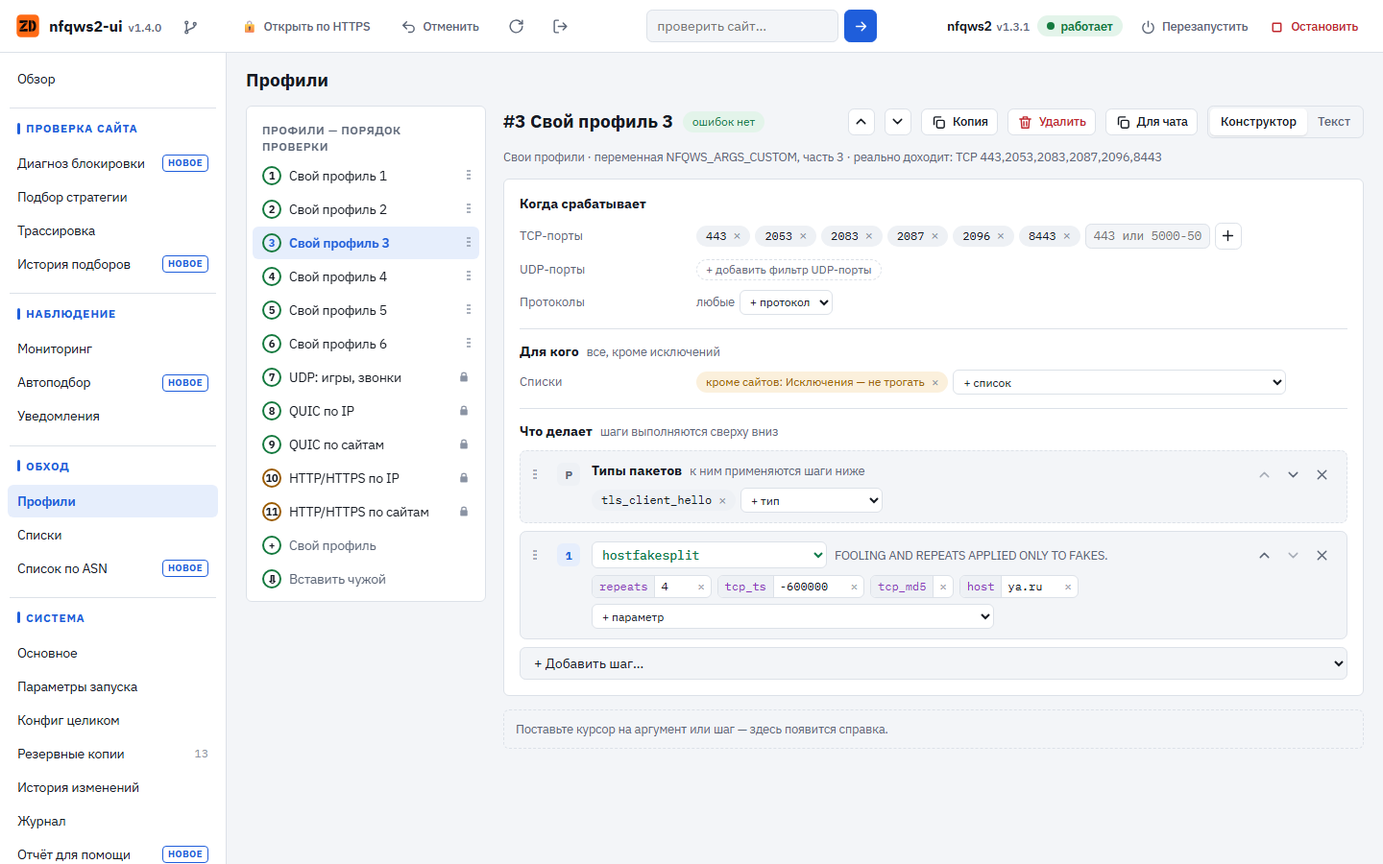
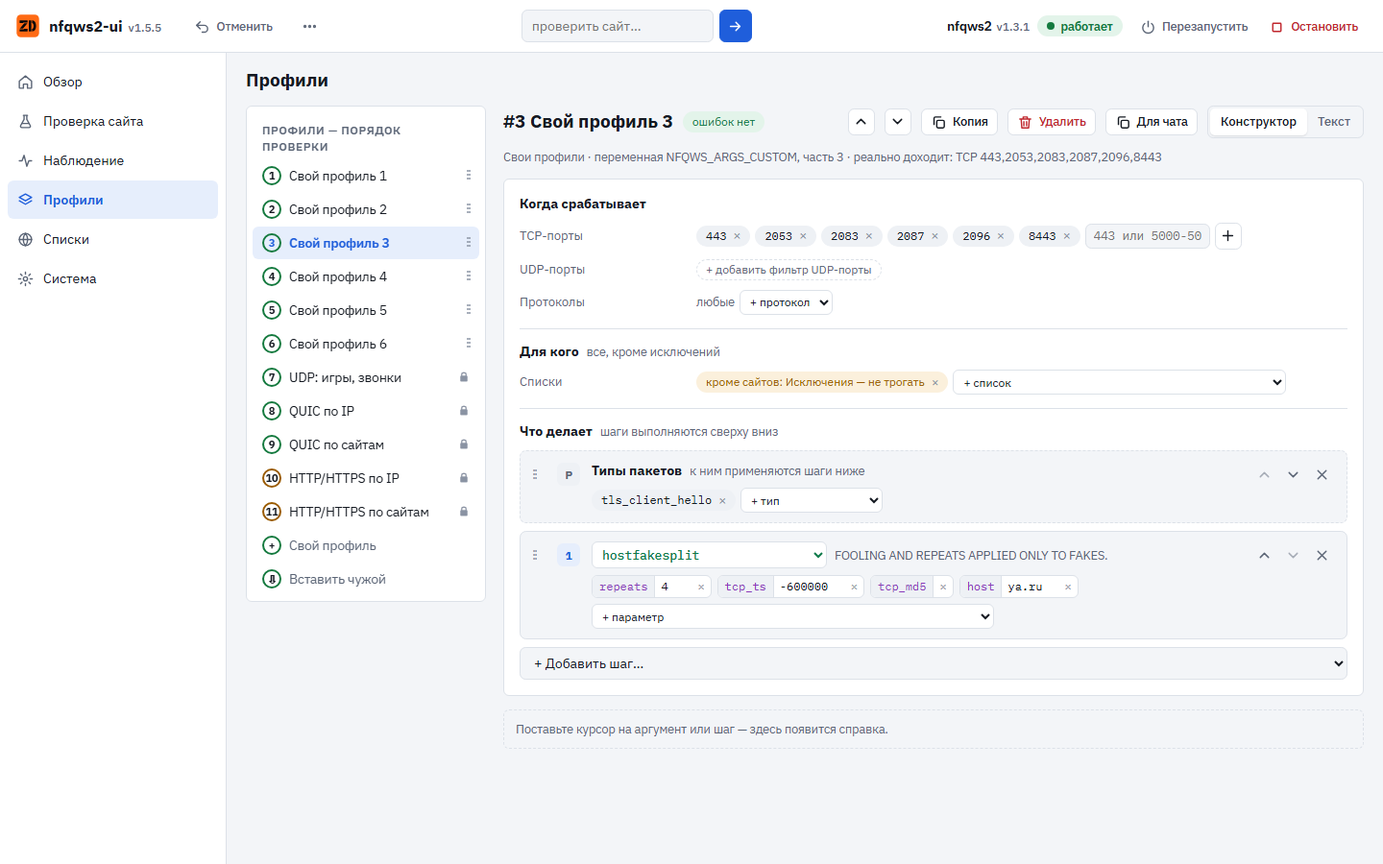
Simpler interface: six menu sections with page tabs, 'Brief' overview, rare top bar actions under '⋯' (#9)

diff --git a/src/www/app.js b/src/www/app.js
@@ -29,6 +29,7 @@ const ICONS = {
   edit: '<path d="M4 20h4L19 9l-4-4L4 16z"/>',
   wand: '<path d="m15 4 5 5L9 20l-5-5z"/><path d="M13 6l5 5"/>',
   menu: '<path d="M4 6h16M4 12h16M4 18h16"/>',
+  more: '<circle cx="5" cy="12" r="1.3"/><circle cx="12" cy="12" r="1.3"/><circle cx="19" cy="12" r="1.3"/>',
   pulse: '<path d="M3 12h4l3-8 4 16 3-8h4"/>',
   layers: '<path d="m12 3 9 5-9 5-9-5z"/><path d="m3 13 9 5 9-5"/>',
   download: '<path d="M12 4v11M7 10l5 5 5-5M5 20h14"/>',
@@ -305,12 +306,13 @@ const PAGES = {
   // ещё не сделаны: в меню видны, но заблокированы и помечены «скоро»
   diag: ['#/diag', 'Диагноз блокировки'], phist: ['#/tests/history', 'История подборов'], auto: ['#/tests/auto', 'Автоподбор'], asn: ['#/asn', 'Список по ASN'], report: ['#/settings/report', 'Отчёт для помощи'],
 };
-const NEW_PAGES = ['diag', 'phist', 'auto', 'asn', 'report'];   // только что появились — помечаются в меню
+const NEW_PAGES = [];   // только что появились — помечаются во вкладках («новое»)
 const SOON_HINT = 'Ещё в разработке — появится в одной из следующих версий';
 const SYS_PAGES = ['basic', 'base', 'raw', 'backup', 'hist', 'log', 'report', 'look', 'about'];
 const SYS_NAV = ['basic', 'base', 'raw', 'backup', 'hist', 'log', 'report', 'look', 'about'];
-// Компоновка «Боковое меню»: группы и их страницы
-const MENU = [[null, ['over']], ['Проверка сайта', ['diag', 'pick', 'trace', 'phist']], ['Наблюдение', ['mon', 'auto', 'tg']], ['Обход', ['prof', 'lists', 'asn']], ['Система', SYS_NAV]];
+// Компоновка «Боковое меню»: шесть разделов, страницы раздела — вкладками над страницей (как в TOP_TABS)
+const MENU = [['over', 'Обзор', 'home', ['over']], ['pick', 'Проверка сайта', 'tests', ['diag', 'pick', 'trace', 'phist', 'site']], ['mon', 'Наблюдение', 'pulse', ['mon', 'auto', 'tg']],
+  ['prof', 'Профили', 'layers', ['prof']], ['lists', 'Списки', 'sites', ['lists', 'asn']], ['basic', 'Система', 'settings', SYS_NAV]];
 // Верхние вкладки компоновок: страница по клику, подпись, значок, страницы вкладки, «только на узком экране»
 const TOP_TABS = {
   menu: [],
@@ -366,14 +368,12 @@ function pageTail(id) {
   return tail ? h('span', { class: 'tail' }, tail) : null;
 }
 
+// У раздела — отметка первой из его страниц, у которой она есть (упавшие сайты, ошибки, обновление); число снимков — только во вкладке
 function menuNav() {
   const cur = pageOf();
-  return h('nav', { class: 'nav mnav', 'aria-label': 'Разделы' }, MENU.map(([head, ids]) => [
-    head ? h('div', { class: 'nav-h', text: head }) : null,
-    ids.map((id) => PAGES[id][0]
-      ? h('a', { href: PAGES[id][0], 'data-pages': id === 'pick' ? 'pick site' : id, class: id === cur || (id === 'pick' && cur === 'site') ? 'on' : null },
-        h('span', { class: 'nm', text: PAGES[id][1] }), NEW_PAGES.includes(id) ? h('span', { class: 'tag new', text: 'новое' }) : pageTail(id))
-      : soonItem(id))]));
+  return h('nav', { class: 'nav mnav', 'aria-label': 'Разделы' }, MENU.map(([id, label, ic, pages]) =>
+    h('a', { href: PAGES[id][0], 'data-pages': pages.join(' '), class: pages.includes(cur) ? 'on' : null },
+      icon(ic), h('span', { class: 'nm', text: label }), pages.filter((x) => x !== 'backup').map(pageTail).find(Boolean) || null)));
 }
 
 // Пункт для ещё не сделанной страницы: виден, но не нажимается
@@ -388,9 +388,9 @@ function openDrawer(on = true) {
   if (on) d.firstChild.replaceChildren(menuNav());
 }
 
-// Второй ряд вкладок — страницы текущей верхней вкладки (компоновки «Вкладки» и «Вокруг сайта»)
+// Ряд вкладок над страницей — страницы текущего раздела
 function subTabs(page) {
-  const tab = TOP_TABS[layout()].find((t) => t[3].includes(page));
+  const tab = (layout() === 'menu' ? MENU : TOP_TABS[layout()]).find((t) => t[3].includes(page));
   const ids = tab ? tab[3].filter((id) => id !== 'site') : [];
   if (ids.length < 2 || page === 'site') return null;
   return h('nav', { class: 'subtabs', 'aria-label': tab[1] }, ids.map((id) => PAGES[id][0] ? h('a', { href: PAGES[id][0], class: id === page ? 'on' : null }, PAGES[id][1], NEW_PAGES.includes(id) ? h('span', { class: 'tag new', text: 'новое' }) : null) : soonItem(id)));
@@ -404,13 +404,10 @@ function renderShell() {
       h('div', { class: 'top-in' },
         h('button', { class: 'btn ghost icon', id: 'burger', type: 'button', title: 'Меню', 'aria-label': 'Меню', onclick: () => openDrawer() }, icon('menu')),
         h('a', { class: 'brand', href: PAGES.about[0], title: 'nfqws2-ui — о программе' }, logo(26), h('span', {}, 'nfqws2-ui', h('small', { id: 'ui-ver' }))),
-        h('a', { class: 'btn ghost small repo-link', id: 'repo-link', href: REPO, target: '_blank', rel: 'noopener', title: 'nfqws2-ui на GitHub', 'aria-label': 'nfqws2-ui на GitHub' }, icon('git')),
         h('nav', { class: 'tabs', 'aria-label': 'Разделы' }, TOP_TABS[layout()].map(link)),
-        h('span', { id: 'https-slot' }),
         h('button', { class: 'btn ghost small', type: 'button', id: 'undo-btn', hidden: true, onclick: () => undoLast(true) }, icon('undo'), h('span', { class: 'undo-label', text: 'Отменить' })),
         h('button', { class: 'btn ghost small', type: 'button', id: 'focus-off', hidden: true, onclick: () => setFocus(false) }, 'Показать обзор'),
-        h('button', { class: 'btn ghost icon', id: 'refresh-top', type: 'button', title: 'Обновить', 'aria-label': 'Обновить', onclick: () => route(true) }, icon('refresh')),
-        S.authEnabled ? h('button', { class: 'btn ghost icon', type: 'button', title: 'Выйти', 'aria-label': 'Выйти', onclick: logout }, icon('logout')) : null,
+        moreMenu(),
         h('span', { class: 'grow' }),
         h('form', { class: 'quick', onsubmit: (e) => { e.preventDefault(); const v = quick.value.trim(); if (!v) return; quick.value = ''; quick.blur(); checkHost(v); } },
           quick, h('button', { class: 'btn primary icon', type: 'submit', title: 'Проверить: открывается ли сайт и каким профилем nfqws2 он пойдёт', 'aria-label': 'Проверить' }, icon('arrow'))),
@@ -427,6 +424,24 @@ function renderShell() {
     h('div', { id: 'drawer', class: 'drawer', hidden: true, onclick: (e) => { if (e.target.id === 'drawer' || e.target.closest('a')) openDrawer(false); } }, h('div', { class: 'drawer-in' })));
 }
 
+// Редкое из верхней панели — под «⋯»: обновить данные, HTTPS, GitHub, выход
+function moreMenu() {
+  const pop = h('div', { class: 'more-pop', hidden: true, role: 'menu', onclick: (e) => { if (e.target.closest('a, button')) pop.hidden = true; } },
+    h('button', { type: 'button', role: 'menuitem', onclick: () => route(true) }, icon('refresh'), 'Обновить данные'),
+    h('span', { id: 'https-slot' }),
+    h('a', { href: REPO, target: '_blank', rel: 'noopener', role: 'menuitem', id: 'repo-link' }, icon('git'), 'nfqws2-ui на GitHub'),
+    h('a', { href: PAGES.about[0], role: 'menuitem' }, icon('info'), 'О программе'),
+    S.authEnabled ? h('button', { type: 'button', role: 'menuitem', onclick: logout }, icon('logout'), 'Выйти') : null);
+  const b = h('button', { class: 'btn ghost icon', type: 'button', id: 'more-btn', title: 'Ещё: обновить данные, HTTPS, GitHub, выход', 'aria-label': 'Ещё', 'aria-haspopup': 'menu',
+    onclick: (e) => { e.stopPropagation(); pop.hidden = !pop.hidden; } }, icon('more'));
+  if (!moreMenu.bound) {
+    moreMenu.bound = true;
+    document.addEventListener('click', (e) => { const p = document.querySelector('.more-pop'); if (p && !p.hidden && !p.contains(e.target)) p.hidden = true; });
+    document.addEventListener('keydown', (e) => { if (e.key === 'Escape') document.querySelector('.more-pop')?.setAttribute('hidden', ''); });
+  }
+  return h('span', { class: 'more-wrap' }, b, pop);
+}
+
 function setFocus(on) {
   document.documentElement.dataset.focus = on ? '1' : '0';
   const b = document.getElementById('focus-off');
@@ -441,7 +456,7 @@ function updateChrome() {
   // Ссылка на HTTPS — только если он включён (nfqws-ui-setup https on)
   const hp = st.ui?.https_port;
   document.getElementById('https-slot')?.replaceChildren(location.protocol === 'http:' && hp
-    ? h('a', { class: 'btn ghost small https-link', href: `https://${location.hostname}:${hp}/${location.hash}`, title: 'Открыть по HTTPS: пароль и данные идут в зашифрованном виде', 'aria-label': 'Открыть по HTTPS' }, '🔒', h('span', { text: ' Открыть по HTTPS' }))
+    ? h('a', { href: `https://${location.hostname}:${hp}/${location.hash}`, role: 'menuitem', title: 'Пароль и данные идут в зашифрованном виде' }, h('span', { class: 'mi', text: '🔒' }), 'Открыть по HTTPS')
     : null);
   const svc = document.getElementById('svc');
   svc.className = 'pill ' + (st.running ? 'ok' : 'bad');
@@ -952,15 +967,17 @@ function actionsBlock(res) {
 }
 
 // Виды страницы «Обзор»: одни и те же блоки, разложенные по-разному. Выбор хранится вместе с оформлением.
-const OVERVIEWS = [['groups', 'Группы'], ['tiles', 'Плитки'], ['masonry', 'Кладка'], ['panel', 'Панель']];
+const OVERVIEWS = [['brief', 'Кратко'], ['groups', 'Группы'], ['tiles', 'Плитки'], ['masonry', 'Кладка'], ['panel', 'Панель']];
 
 async function viewOverview(main, r) {
   sideBlocks();
   const look = getLook();
-  const view = OVERVIEWS.some(([v]) => v === look.overview) ? look.overview : 'groups';
+  const view = OVERVIEWS.some(([v]) => v === look.overview) ? look.overview : 'brief';
   const B = { svc: SIDE.service, check: S.check.el, prob: SIDE.problems, mon: SIDE.monitor, backup: SIDE.backup, traffic: SIDE.traffic, ...overviewExtra() };
   const grp = (title, ...blocks) => h('div', { class: 'ogrp' }, h('h3', { text: title }), ...blocks);
   const body = {
+    // главное сверху (всё ли работает, «сайт не открывается?»), остальное — свёрнутыми строками с итогом
+    brief: () => overviewBrief(B),
     // три колонки по смыслу, внутри группы блоки соприкасаются
     groups: () => h('div', { class: 'ov ov-groups' }, grp('Сейчас', B.svc, B.check, B.prob, B.mon, B.traffic), grp('Настроено', B.profs, B.lists, B.backup), grp('Недавно', B.picks, B.changes, B.ver)),
     // ряд плиток с главными цифрами, ниже слева главное, справа недавнее
@@ -978,6 +995,55 @@ async function viewOverview(main, r) {
     body);
   updateSide();
   if (r.q.get('q')) S.check.run(r.q.get('q'));
+}
+
+// «Кратко»: строка «всё ли работает», поле проверки сайта и свёрнутые подробности.
+// Что раскрыто, запоминается в браузере; при остановке или замечаниях нужный блок раскрыт сам.
+function overviewBrief(B) {
+  const st = S.state;
+  const KEY = 'nfqws-ui-ov-open';
+  let open = [];
+  try { open = JSON.parse(localStorage.getItem(KEY)) || []; } catch { /* нет хранилища */ }
+  const m = st.monitor?.sites || [];
+  const okN = m.filter((x) => x.last && x.last[1]).length;
+  const problems = problemItems().filter((x) => x.level !== 'info');
+  const profs = st.conf_profiles;
+  const bad = profs.filter((p) => worst(profIssues(p)) === 'error' || ['dead', 'excludes-only'].includes(p.state)).length;
+  const used = st.lists.filter((l) => l.used.length);
+  const [lvl, title] = !st.running ? ['bad', 'nfqws2 остановлен'] : problems.length ? ['warn', 'Есть замечания']
+    : m.length && okN < m.length ? ['warn', 'Не все сайты открываются'] : ['ok', 'Всё работает'];
+  const facts = [st.running && st.process?.started ? 'nfqws2 запущен ' + fmtAgo(st.now - st.process.started) : null,
+    m.length ? `${okN} из ${m.length} сайтов открываются` : null,
+    problems.length ? plural(problems.length, 'замечание', 'замечания', 'замечаний') + ' к конфигу и спискам' : 'замечаний к конфигу нет'].filter(Boolean);
+  const HREF = { svc: null, prob: null, mon: PAGES.mon[0], profs: PAGES.prof[0], lists: PAGES.lists[0], picks: PAGES.phist[0], changes: PAGES.hist[0], backup: PAGES.backup[0], more: PAGES.about[0] };
+  const fold = (id, label, summary, block, force) => {
+    const d = h('details', { class: 'ofold', open: force || open.includes(id) }, h('summary', {}, h('b', { text: label }), h('span', { class: 'sm faint ellipsis' }, summary),
+      HREF[id] ? h('a', { class: 'sm', href: HREF[id], text: 'открыть', onclick: (e) => e.stopPropagation() }) : null), block);
+    d.addEventListener('toggle', () => {
+      open = d.open ? [...new Set([...open, id])] : open.filter((x) => x !== id);
+      try { localStorage.setItem(KEY, JSON.stringify(open)); } catch { /* нет хранилища */ }
+    });
+    return d;
+  };
+  const picksSum = h('span', {});
+  const changesSum = h('span', {});
+  B.picksReq?.then((r) => { const x = r.items?.[0]; picksSum.textContent = x ? `${x.host} · ${fmtDate(x.ts)}` : 'ещё не запускался'; }).catch(() => {});
+  B.changesReq?.then((r) => { const x = r.items?.[0]; changesSum.textContent = x ? `${x.note || x.file} · ${fmtDate(x.ts)}` : 'не было'; }).catch(() => {});
+  const folds = [
+    problems.length ? fold('prob', 'Замечания', plural(problems.length, 'замечание', 'замечания', 'замечаний'), B.prob, true) : null,
+    fold('svc', 'Сервис', [st.version && 'nfqws2 v' + st.version, st.running ? 'работает' : 'остановлен'].filter(Boolean).join(' · '), B.svc, !st.running),
+    m.length ? fold('mon', 'Мониторинг', `${okN} из ${m.length}` + (st.monitor.last ? ' · ' + fmtAgo(st.now - st.monitor.last) : ''), B.mon, okN < m.length) : null,
+    fold('profs', 'Профили', `${profs.length} · ` + (bad ? `${bad} с проблемами` : 'все в порядке'), B.profs),
+    fold('lists', 'Списки', `${used.length} из ${st.lists.length} используются · ${fmtNum(used.reduce((a, l) => a + l.entries, 0))} записей`, B.lists),
+    fold('picks', 'Последние подборы', picksSum, B.picks),
+    fold('changes', 'Последние изменения', changesSum, B.changes),
+    fold('backup', 'Резервные копии', st.snap?.count ? `${st.snap.count} · последняя ` + fmtAgo(st.now - st.snap.last) : 'снимков нет', B.backup),
+    fold('more', 'Трафик и версии', `nfqws2-ui v${st.ui?.version || '?'}` + (st.ui?.update?.available ? ` · есть ${st.ui.update.latest}` : ''), h('div', {}, B.traffic, B.ver)),
+  ].filter(Boolean);
+  return h('div', { class: 'ov ov-brief' },
+    h('section', { class: 'blk ov-state ' + lvl }, h('span', { class: 'big' }, h('span', { class: 'dot' }), title), h('span', { class: 'sm muted', text: facts.join(' · ') })),
+    h('section', { class: 'blk ov-ask' }, h('h2', { text: 'Сайт не открывается?' }), B.check),
+    h('div', { class: 'blk ov-folds' }, folds));
 }
 
 // Плитки с главными цифрами — состояние читается с одного взгляда
@@ -1030,14 +1096,16 @@ function overviewExtra() {
       kv('Конфиг', h('a', { class: 'mono', href: PAGES.raw[0], text: st.ui?.conf_file || 'nfqws2.conf' })),
       kv('Изменён', st.conf_mtime ? fmtAgo(st.now - st.conf_mtime) : '—'),
       h('p', { class: 'sm' }, h('a', { href: '#/settings/readme', text: 'Справка' }), ' · ', h('a', { href: '#/settings/changelog', text: 'изменения по версиям' })));
-  api('tests_history').then((r) => {
+  out.picksReq = api('tests_history');
+  out.changesReq = api('history_log', { limit: 6 });
+  out.picksReq.then((r) => {
     const items = (r.items || []).slice(0, 5);
     picks.replaceChildren(items.length ? items.map((x) => h('a', { class: 'over-row', href: pickHistHref(x.host) },
       levelIcon(x.baseline?.ok ? 'info' : x.best ? 'ok' : 'error'), h('span', { class: 'ellipsis mono', text: x.host }),
       h('span', { class: 'sm faint ellipsis', text: x.baseline?.ok ? 'открывается и так' : x.best || 'ничего не помогло' })))
       : h('span', { class: 'sm muted', text: 'Подбор стратегии ещё не запускался.' }));
   }).catch(() => picks.replaceChildren());
-  api('history_log', { limit: 6 }).then((r) => {
+  out.changesReq.then((r) => {
     changes.replaceChildren(r.items.length ? r.items.map((e) => h('div', { class: 'over-row' },
       h('span', { class: 'sm faint num nowrap', text: fmtDate(e.ts) }),
       h('span', { class: 'ellipsis', title: e.note || '', text: e.file === '*' ? e.note : [e.file === 'nfqws2.conf' ? 'Конфиг' : listName(e.file), e.note].filter(Boolean).join(': ') })))

diff --git a/src/www/app.css b/src/www/app.css
@@ -446,7 +446,7 @@ select, .select, .mini-sel, .fn-sel { max-width: 100%; min-width: 0; }
   .mon-site .chk-now { font-size: 0; gap: 0; width: 36px; padding: 0; justify-content: center; }
   .mon-site .upbar i { min-width: 2px; }
 }
-@media (max-width: 759px) { .https-link span { display: none; } .top-in { gap: 8px; padding: 0 12px; } }
+@media (max-width: 759px) { .top-in { gap: 8px; padding: 0 12px; } }
 
 /* перезапуск с проверкой */
 #pending:empty { display: none; }
@@ -474,12 +474,12 @@ select, .select, .mini-sel, .fn-sel { max-width: 100%; min-width: 0; }
 .svc-buttons { display: flex; gap: 6px; flex-wrap: wrap; }
 .svc-ctl { display: inline-flex; gap: 2px; }
 .svc-ctl .ctl-label { display: none; }
-@media (min-width: 1100px) { .svc-ctl { display: none; } #refresh-top { display: none; } }
+@media (min-width: 1100px) { .svc-ctl { display: none; } }
 /* меню «Применить» с пояснениями */
 .menu-list.wide { width: min(460px, 92vw); }
 .menu-list .opt { display: grid; gap: 2px; text-align: left; white-space: normal; padding: 8px 10px; }
 .menu-list .opt.dim b { color: var(--muted); }
-@media (max-width: 759px) { .brand small, .https-link { display: none; } .top-in { gap: 4px; } .top-in .btn.icon, .svc-ctl .btn { width: 36px; min-height: 36px; padding: 0; } }
+@media (max-width: 759px) { .brand small { display: none; } .top-in { gap: 4px; } .top-in .btn.icon, .svc-ctl .btn { width: 36px; min-height: 36px; padding: 0; } }
 
 /* ---------- обновление ---------- */
 .banner.info { background: var(--accent-soft); color: var(--accent); }
@@ -503,10 +503,6 @@ pre.logv { white-space: normal; word-break: normal; padding: 6px 0; font-family:
 .lg-warn { color: var(--warn); font-weight: 600; }
 .lg-ok { color: var(--ok); font-weight: 600; }
 
-/* версия интерфейса у ссылки на репозиторий */
-.repo-link { color: var(--muted); font-size: 12px; font-weight: 500; gap: 5px; }
-.repo-link:hover { color: var(--fg); }
-@media (max-width: 759px) { .repo-link span { display: none; } }
 
 /* ---------- документы: README, история версий, описание релиза ---------- */
 .md { font-size: 14px; line-height: 1.6; overflow-wrap: anywhere; }
@@ -547,7 +543,7 @@ pre.logv { white-space: normal; word-break: normal; padding: 6px 0; font-family:
 .list-search { flex: 1 1 240px; min-width: 0; }
 
 /* шапка на средних ширинах: подписи у второстепенных кнопок прячем, иконки с подсказками остаются */
-@media (max-width: 1439px) { .repo-link span, .https-link span, .undo-label { display: none; } }
+@media (max-width: 1439px) { .undo-label { display: none; } }
 /* 760–1099px: вкладки без подписей, кроме открытой, — иначе шапка шире экрана */
 @media (min-width: 760px) and (max-width: 1099px) { .tabs a:not(.on) span { display: none; } .tabs a { padding: 0 10px; } .brand small { display: none; } }
 
@@ -580,16 +576,15 @@ pre.logv { white-space: normal; word-break: normal; padding: 6px 0; font-family:
   /* без колонки обзора управление сервисом и плашка «нужен перезапуск» остаются в шапке */
   :root:not([data-layout="tabs"]) #banner { display: block; }
   :root:not([data-layout="tabs"]) .svc-ctl { display: inline-flex; }
-  :root:not([data-layout="tabs"]) #refresh-top { display: inline-flex; }
 }
 @media (min-width: 1280px) { :root[data-layout="menu"] .svc-ctl .ctl-label { display: inline; } }
 /* «Вокруг сайта»: в шапке ещё и вкладки, и поле проверки — подписи второстепенных кнопок появляются только на очень широком экране */
 @media (min-width: 1760px) { :root[data-layout="site"] .svc-ctl .ctl-label { display: inline; } }
-@media (max-width: 1759px) { :root[data-layout="site"] .repo-link span, :root[data-layout="site"] .https-link span, :root[data-layout="site"] .undo-label { display: none; } }
+@media (max-width: 1759px) { :root[data-layout="site"] .undo-label { display: none; } }
 /* шапка не должна быть шире экрана: на промежуточных ширинах подписи остаются только у открытой вкладки */
 @media (min-width: 1100px) and (max-width: 1279px) { :root[data-layout="tabs"] .tabs a:not(.on) span { display: none; } }
 @media (min-width: 1100px) and (max-width: 1439px) { :root[data-layout="site"] .tabs a:not(.on) span { display: none; } :root[data-layout="site"] .quick .input { width: 150px; } }
-@media (min-width: 760px) and (max-width: 1099px) { .repo-link { display: none; } .top-in { gap: 8px; } :root[data-layout="site"] .quick { display: none; } .quick .input { width: 130px; } }
+@media (min-width: 760px) and (max-width: 1099px) { .top-in { gap: 8px; } :root[data-layout="site"] .quick { display: none; } .quick .input { width: 130px; } }
 .mnav { padding: 10px 8px 20px; background: var(--surface); min-height: 100%; }
 .soon { display: flex; align-items: center; gap: 8px; padding: 6px 10px; min-height: 34px; font-size: 13.5px; color: var(--faint); cursor: not-allowed; user-select: none; }
 .tag { margin-left: auto; flex: none; font-size: 10px; font-weight: 700; text-transform: uppercase; letter-spacing: .04em; border: 1px solid var(--line); border-radius: 4px; padding: 0 5px; line-height: 16px; color: var(--faint); }
@@ -725,7 +720,6 @@ a.over-row:hover { background: var(--soft); }
 .svc-name small { font-weight: 500; color: var(--muted); font-size: 12px; }
 @media (max-width: 1099px) { .svc-name { display: none; } .svc-box { gap: 4px; } }
 @media (min-width: 1100px) and (max-width: 1919px) { :root[data-layout="site"] .svc-name { display: none; } }
-@media (max-width: 759px) { .repo-link { display: none; } }
 
 /* боковое меню: названия групп — заметные заголовки, а не ещё один пункт */
 :root .mnav .nav-h { margin: 12px 2px 4px; padding: 12px 8px 6px; border-top: 1px solid var(--line); font-size: 11.5px; font-weight: 700; text-transform: uppercase; letter-spacing: .09em; color: var(--accent); }
@@ -759,3 +753,43 @@ a.over-row:hover { background: var(--soft); }
 /* галочка с длинной подписью: подпись переносится по словам рядом с галочкой, а не уезжает под неё */
 label.row { flex-wrap: nowrap; }
 label.row > input[type="checkbox"], label.row > input[type="radio"] { flex: none; }
+
+/* ---------- #9: короткое меню, «⋯» в шапке, «Обзор» — «Кратко» ---------- */
+.mnav a { min-height: 40px; gap: 10px; font-size: 14px; }
+.mnav a > svg { color: var(--muted); }
+.mnav a.on > svg { color: var(--accent); }
+.more-wrap { position: relative; display: inline-flex; }
+.more-pop { position: absolute; top: calc(100% + 6px); left: 0; z-index: 60; min-width: 230px; display: grid; padding: 6px;
+  background: var(--surface); border: 1px solid var(--line); border-radius: var(--radius); box-shadow: 0 8px 28px rgba(0, 0, 0, .28); }
+.more-pop[hidden] { display: none; }
+.more-pop a, .more-pop button { display: flex; align-items: center; gap: 10px; padding: 8px 10px; border: 0; background: none; color: var(--fg); font: inherit; font-size: 13.5px;
+  text-align: left; border-radius: calc(var(--radius) * .7); cursor: pointer; text-decoration: none; white-space: nowrap; }
+.more-pop a:hover, .more-pop button:hover { background: var(--soft); }
+.more-pop svg, .more-pop .mi { width: 17px; color: var(--muted); text-align: center; }
+#https-slot:empty { display: none; }
+#https-slot { display: grid; }
+@media (max-width: 759px) { .more-pop { left: auto; right: -60px; } }
+
+.ov-brief { display: grid; gap: 14px; max-width: 980px; }
+.ov-state { display: flex; align-items: baseline; gap: 6px 16px; flex-wrap: wrap; padding: 16px 18px; }
+.ov-state .big { font-size: 20px; font-weight: 700; display: inline-flex; align-items: center; gap: 9px; }
+.ov-state .dot { width: 10px; height: 10px; border-radius: 50%; background: currentColor; }
+.ov-state.ok .big { color: var(--ok); } .ov-state.warn .big { color: var(--warn); } .ov-state.bad .big { color: var(--bad); }
+.ov-ask { padding: 16px 18px; }
+.ov-ask > h2 { margin: 0 0 8px; font-size: 16px; }
+.ov-ask > .blk { border: 0; padding: 0; background: none; box-shadow: none; }
+.ov-ask > .blk > .blk-h { display: none; }
+.ov-folds { padding: 0; overflow: hidden; }
+.ofold { border-bottom: 1px solid var(--line); }
+.ofold:last-child { border-bottom: 0; }
+.ofold > summary { display: flex; align-items: center; gap: 12px; padding: 11px 16px; cursor: pointer; list-style: none; min-height: 44px; }
+.ofold > summary::-webkit-details-marker { display: none; }
+.ofold > summary::before { content: ""; width: 7px; height: 7px; flex: none; border-right: 2px solid var(--faint); border-bottom: 2px solid var(--faint); transform: rotate(-45deg); transition: transform .15s; }
+.ofold[open] > summary::before { transform: translateY(-2px) rotate(45deg); }
+.ofold > summary:hover { background: var(--soft); }
+.ofold > summary b { flex: none; font-weight: 600; }
+.ofold > summary .sm.ellipsis { margin-left: auto; min-width: 0; text-align: right; }
+.ofold > .blk, .ofold > div > .blk { border: 0; border-radius: 0; box-shadow: none; background: none; padding: 4px 16px 14px 35px; margin: 0; }
+.ofold .blk > .blk-h { display: none; }
+.ofold > summary > a { flex: none; }
+@media (max-width: 759px) { .ofold > summary { flex-wrap: wrap; gap: 2px 10px; } .ofold > summary > a { margin-left: auto; } .ofold > summary .sm.ellipsis { order: 3; margin-left: 19px; flex-basis: 100%; text-align: left; } .ofold > .blk, .ofold > div > .blk { padding-left: 16px; } }

diff --git a/CHANGELOG.md b/CHANGELOG.md
@@ -1,5 +1,12 @@
 # Изменения
 
+## Следующая версия — не выпущена
+
+- **Интерфейс проще с первого взгляда** (#9 — «всего много и сразу в глаза»). Ни одна функция не убрана — поменялось то, что видно сразу:
+  - **меню из шести разделов** вместо 22 строк: Обзор, Проверка сайта, Наблюдение, Профили, Списки, Система. Страницы раздела — вкладками над страницей (как в компоновке «Вкладки»); адреса страниц прежние. У раздела видна отметка, если внутри что-то не так (упавшие сайты, ошибки конфига, обновление). Метки «новое» убраны;
+  - **«Обзор» — новый вид «Кратко»** (по умолчанию): одна строка «всё ли работает», поле «Сайт не открывается?» и подробности свёрнутыми строками с итогом — мониторинг, профили, списки, подборы, изменения, копии. Что раскрыто, запоминается; если nfqws2 остановлен, есть замечания или сайт не открывается — нужный блок раскрыт сам. Прежние виды (группы, плитки, кладка, панель) остались — кто выбрал один из них, у того ничего не меняется;
+  - **верхняя панель короче:** «Обновить данные», «Открыть по HTTPS», GitHub, «О программе» и «Выйти» — под кнопкой «⋯».
+
 ## 1.5.5 — 2026-10-05
 
 - **Уведомления: кнопка «Найти» у поля «ID чата».** Роутер сам спрашивает у Telegram, кто недавно писал боту, и показывает чаты с именем и ID — нажатие подставляет ID в поле. Идёт тем же путём, что и уведомления (туннель или прокси), поэтому работает и там, где Telegram в браузере не открывается. Токен не покидает роутер. Если ботом уже пользуется другая программа, об этом сказано прямо (#15).

diff --git a/README.md b/README.md
@@ -32,6 +32,8 @@
 
 ## Что умеет
 
+В меню шесть разделов — Обзор, Проверка сайта, Наблюдение, Профили, Списки, Система; страницы раздела — вкладками над страницей. Редкое из верхней панели (обновить данные, HTTPS, GitHub, выход) — под кнопкой «⋯».
+
 **Обзор**
 - Состояние nfqws2: перезапуск, остановка, версия, память, время работы. Если сервис не работает — **причина** (nfqws2 не принимает конфиг, выключен автозапуск, остановлен вручную) и последние строки журнала.
 - **Проверка сайта.** Показывает:
@@ -41,7 +43,7 @@
   - не уходит ли он в podkop.
 - Проблемы в конфиге, мониторинг сайтов, резервные копии, счётчики трафика, последние подборы и изменения.
 - Предупреждение, если одновременно работает **другой обходчик** (zapret, youtubeUnblock, b4, byedpi): они правят те же пакеты и мешают друг другу.
-- Четыре вида страницы на выбор: группы, плитки, кладка, панель.
+- Вид по умолчанию — «Кратко»: строка «всё ли работает», поле «Сайт не открывается?» и свёрнутые подробности с итогом в строке (что раскрыто, запоминается; при остановке и замечаниях нужное раскрыто само). Ещё четыре вида на выбор: группы, плитки, кладка, панель.
 
 **Проверка сайта**
 - **Диагноз блокировки.** Роутер по шагам выясняет, почему сайт не открывается, и называет причину простыми словами:
